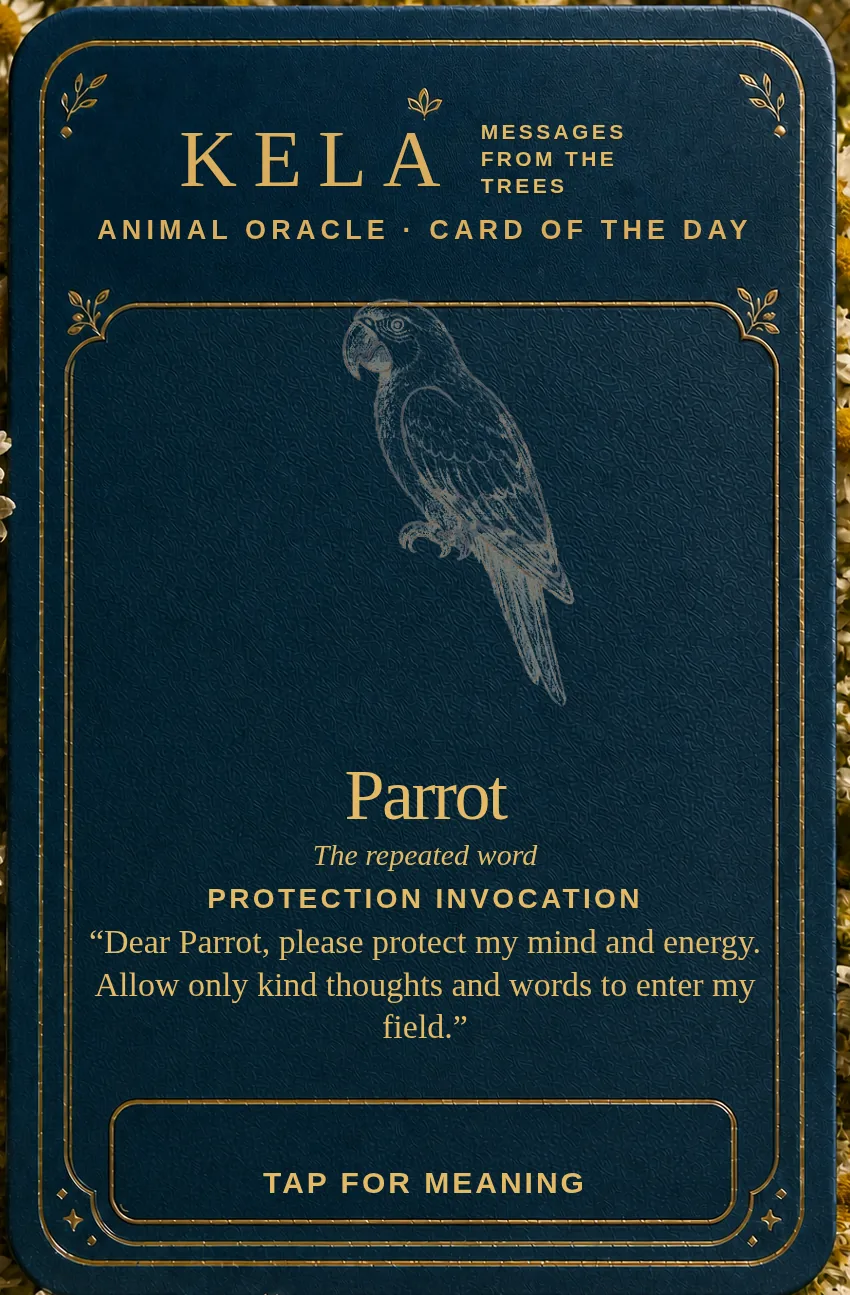
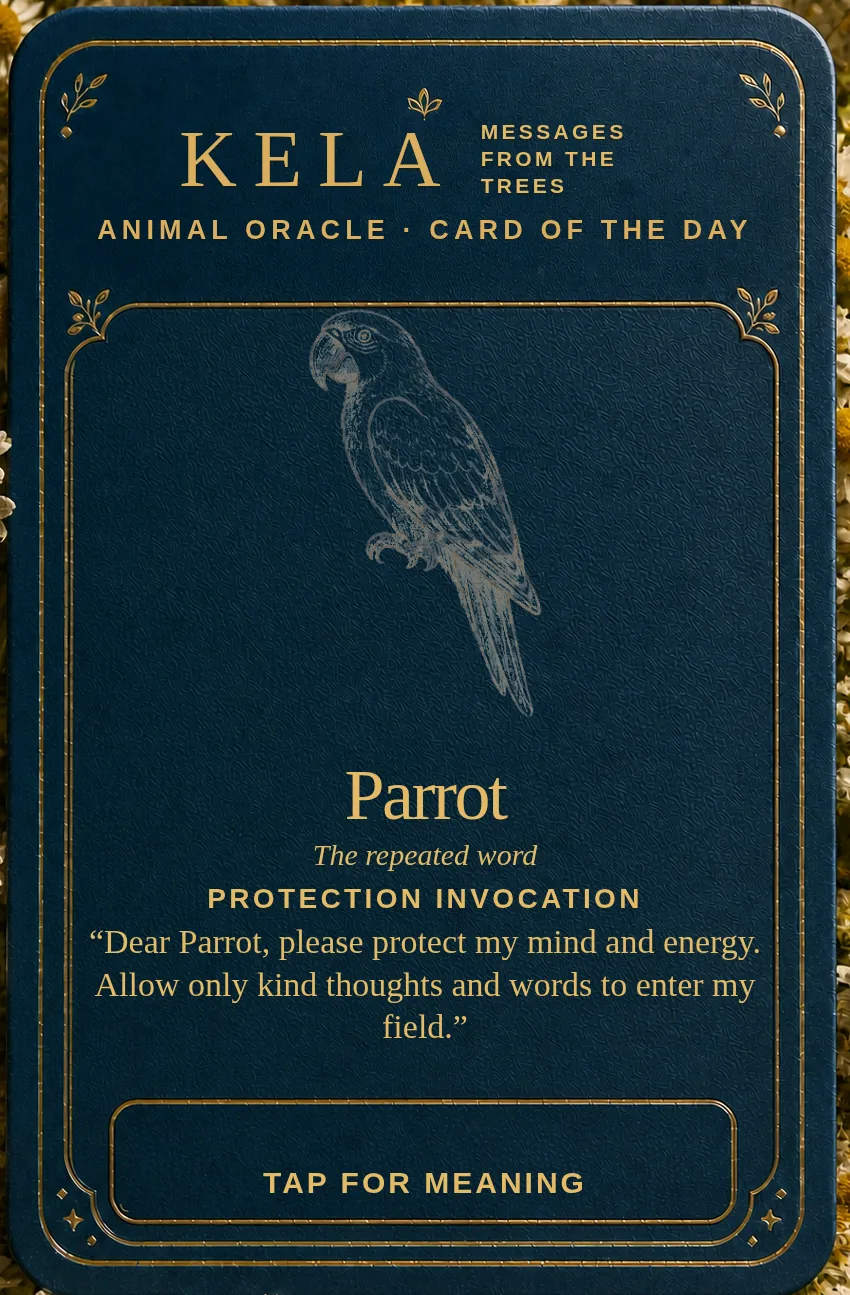
Center animal artwork across oracle cards

Changed region(s): [[0.3671, 0.2162, 0.6729, 0.556]]

diff --git a/oracle-card-renderer.css b/oracle-card-renderer.css
@@ -121,6 +121,9 @@ body {
 }
 
 .art-area.animal img {
+  position: relative;
+  top: var(--animal-art-y, 0);
+  left: var(--animal-art-x, 0);
   width: 100%;
   height: 100%;
   object-fit: contain;
@@ -132,6 +135,30 @@ body {
 .canvas[data-slug="blue-owl"] .art-area.animal img {
   transform: scale(1.17);
 }
+
+/* Center each visible silhouette rather than its uneven transparent image canvas. */
+.canvas[data-slug="bear"] { --animal-art-x: -31.8px; --animal-art-y: 42.2px; }
+.canvas[data-slug="bee"] { --animal-art-x: 2.4px; --animal-art-y: -22.3px; }
+.canvas[data-slug="blue-owl"] { --animal-art-x: 7.2px; --animal-art-y: -12.9px; }
+.canvas[data-slug="bunny-rabbit"] { --animal-art-x: 5.2px; --animal-art-y: 27.5px; }
+.canvas[data-slug="crow"] { --animal-art-x: 25.2px; --animal-art-y: 24.7px; }
+.canvas[data-slug="deer"] { --animal-art-x: 9px; --animal-art-y: 51.7px; }
+.canvas[data-slug="dolphin"] { --animal-art-x: 29.9px; --animal-art-y: -6.6px; }
+.canvas[data-slug="dragonfly"] { --animal-art-x: 61.7px; --animal-art-y: 28.5px; }
+.canvas[data-slug="elephant"] { --animal-art-x: 0.5px; --animal-art-y: 17.1px; }
+.canvas[data-slug="fox"] { --animal-art-x: -11.9px; --animal-art-y: 9px; }
+.canvas[data-slug="frog"] { --animal-art-x: -23.7px; --animal-art-y: -19px; }
+.canvas[data-slug="horse"] { --animal-art-x: -11.4px; --animal-art-y: 22.8px; }
+.canvas[data-slug="hummingbird"] { --animal-art-x: 12.8px; --animal-art-y: -10.4px; }
+.canvas[data-slug="mole"] { --animal-art-x: -1.4px; --animal-art-y: -36.1px; }
+.canvas[data-slug="moth"] { --animal-art-x: 15.7px; --animal-art-y: 7.1px; }
+.canvas[data-slug="octopus"] { --animal-art-x: 11.9px; --animal-art-y: -19px; }
+.canvas[data-slug="parrot"] { --animal-art-x: -33.2px; --animal-art-y: 11.4px; }
+.canvas[data-slug="snake"] { --animal-art-x: -23.3px; --animal-art-y: 44.6px; }
+.canvas[data-slug="spider"] { --animal-art-x: 28.5px; --animal-art-y: -12.8px; }
+.canvas[data-slug="tiger"] { --animal-art-x: -9px; --animal-art-y: -10px; }
+.canvas[data-slug="turtle"] { --animal-art-x: 0; --animal-art-y: -75.9px; }
+.canvas[data-slug="whale"] { --animal-art-x: -27.5px; --animal-art-y: 3.8px; }
 
 .art-area.tree,
 .art-area.plant {

diff --git a/animal-guide.js b/animal-guide.js
@@ -346,7 +346,7 @@ const preloadGuideCard = (index) => {
     };
     image.addEventListener("load", finish);
     image.addEventListener("error", finish);
-    image.src = `${cardAssetBase}-${side}.webp?v=20260825-7`;
+    image.src = `${cardAssetBase}-${side}.webp?v=20260825-8`;
     if (image.complete && image.naturalWidth > 0) finish();
   });
   return Promise.all([
@@ -400,8 +400,8 @@ const fillGuide = (index, colorIndex) => {
   oracleCard.style.setProperty("--guide-accent", cardColor.value);
   updateGuideSeo(guide, cardColor);
   const cardAssetBase = `assets/oracle-cards/animal/${slugify(guide.name)}`;
-  const cardFrontSrc = `${cardAssetBase}-front.webp?v=20260825-7`;
-  const cardBackSrc = `${cardAssetBase}-back.webp?v=20260825-7`;
+  const cardFrontSrc = `${cardAssetBase}-front.webp?v=20260825-8`;
+  const cardBackSrc = `${cardAssetBase}-back.webp?v=20260825-8`;
   if (animalCardFront) {
     if (animalCardFront.getAttribute("src") !== cardFrontSrc) animalCardFront.src = cardFrontSrc;
     animalCardFront.alt = `${guide.name} KELA Animal Oracle card`;

diff --git a/animal-oracle.html b/animal-oracle.html
@@ -36,7 +36,7 @@
     <link rel="stylesheet" href="oracle-card-display.css?v=20260825-5" />
     <script src="script.js?v=20260825-8" defer></script>
     <script src="ux-observer.js?v=20260824-1" data-clarity-project-id="" defer></script>
-    <script src="animal-guide.js?v=20260825-9" defer></script>
+    <script src="animal-guide.js?v=20260825-10" defer></script>
     <script type="application/ld+json">
       {
         "@context": "https://schema.org",

diff --git a/oracle-render-animal.html b/oracle-render-animal.html
@@ -3,7 +3,7 @@
   <head>
     <meta charset="UTF-8" />
     <meta name="viewport" content="width=1122, initial-scale=1" />
-    <link rel="stylesheet" href="oracle-card-renderer.css?v=20260825-6" />
+    <link rel="stylesheet" href="oracle-card-renderer.css?v=20260825-7" />
   </head>
   <body data-deck="animal" data-master="assets/oracle-cards/masters/animal-card-master-v5-chamomile.png">
     <main class="canvas" data-canvas></main>
